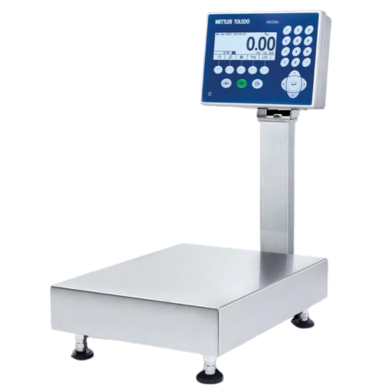
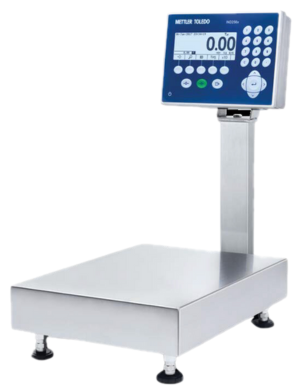
productos: fotos con fondo transparente, recortadas al borde del equipo
- se quita el fondo blanco de las 15 fotos de 390 px del sitio anterior,
  que se veía como un recuadro sobre el degradado de las tarjetas
- en las tarjetas del catálogo las fotos se alinean abajo para que todos
  los equipos se apoyen sobre su sombra

Changed region(s): [[0.4768, 0.0308, 0.9834, 1.0], [0.0298, 0.6462, 0.4172, 0.9231]]

diff --git a/src/components/products/ProductCard.tsx b/src/components/products/ProductCard.tsx
@@ -18,7 +18,8 @@ export function ProductCard({ product }: { product: ProductSummary }) {
           alt={`${product.type} ${product.model}`}
           fill
           sizes="(min-width: 1280px) 300px, (min-width: 1024px) 30vw, (min-width: 640px) 45vw, 90vw"
-          className="object-contain p-8 transition-transform duration-500 ease-out group-hover:scale-[1.04]"
+          // Las fotos vienen recortadas al borde del equipo: alineadas abajo, todas se apoyan en la sombra
+          className="object-contain object-bottom p-8 transition-transform duration-500 ease-out group-hover:scale-[1.04]"
         />
         <span className="absolute left-4 top-4 rounded-full border border-neutral-200/80 bg-white/90 px-3 py-1 text-xs font-semibold text-ink-800">
           {product.type}
